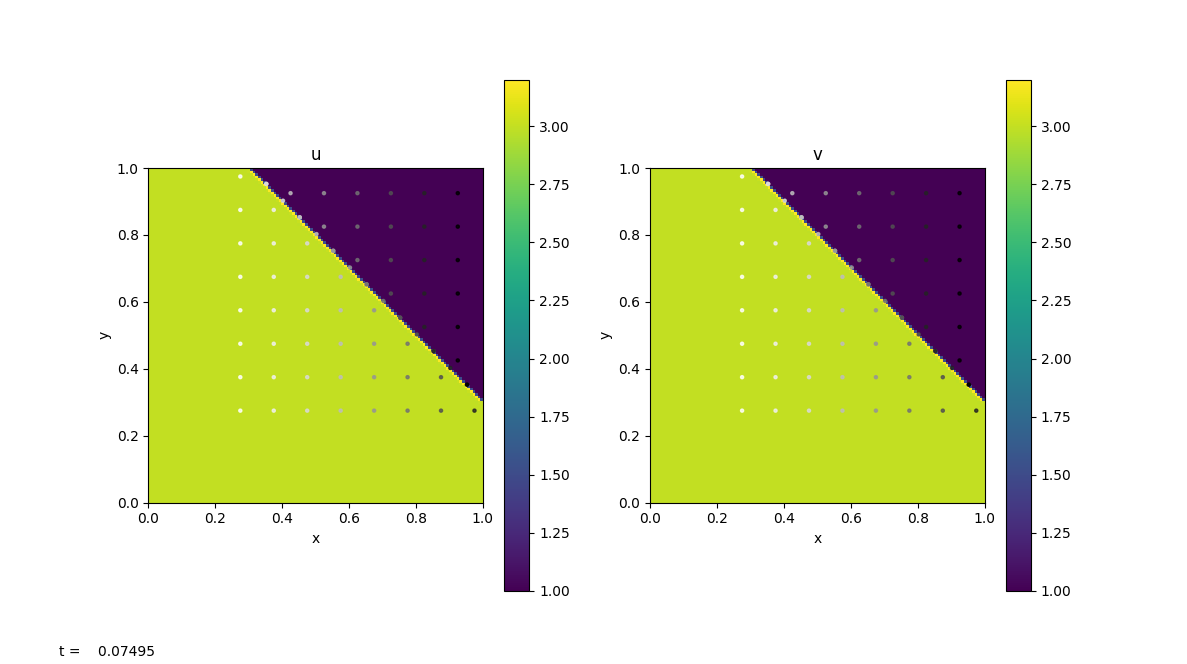
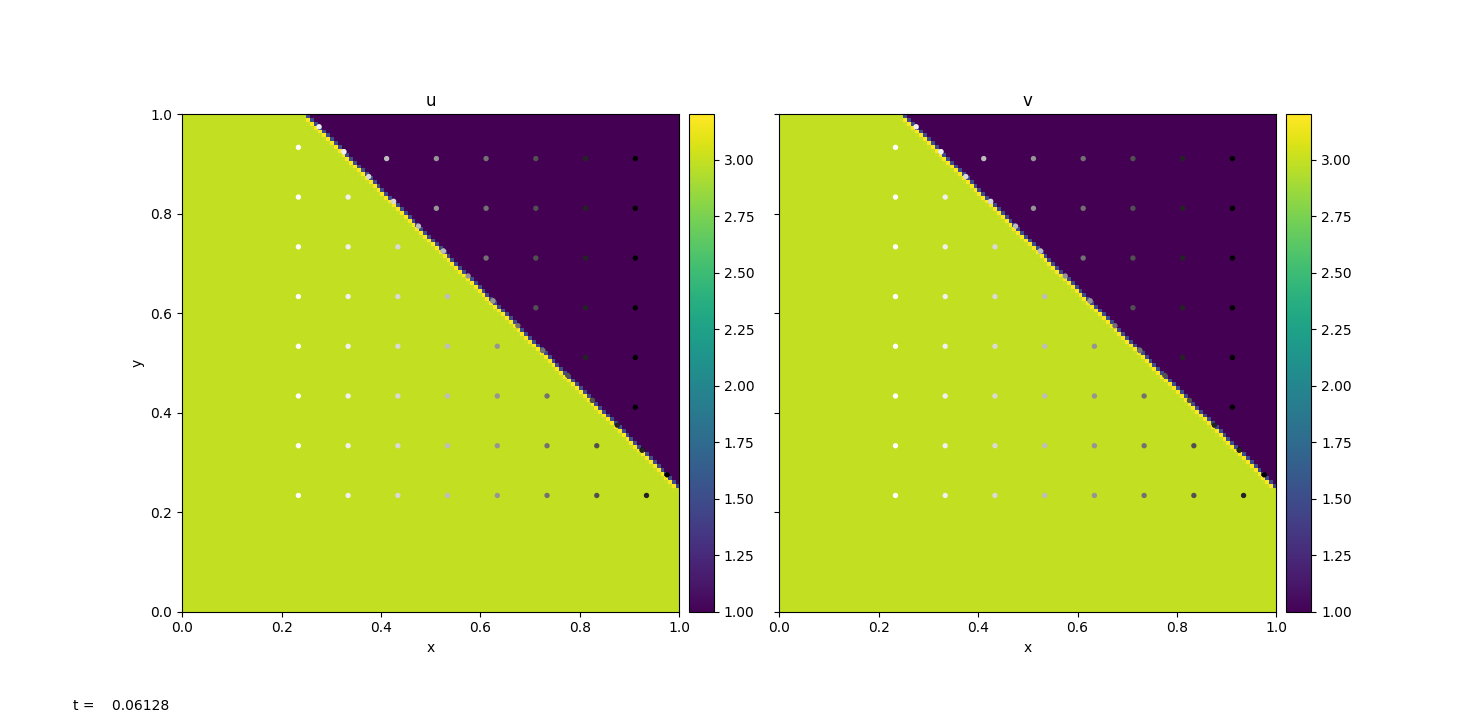
change plotting

diff --git a/pyro/burgers/simulation.py b/pyro/burgers/simulation.py
@@ -1,5 +1,6 @@
 import importlib
 
+import matplotlib
 import matplotlib.pyplot as plt
 import numpy as np
 
@@ -7,6 +8,7 @@ import pyro.burgers.burgers_interface as burgers_interface
 from pyro.mesh import patch, reconstruction
 from pyro.particles import particles
 from pyro.simulation_null import NullSimulation, bc_setup, grid_setup
+from pyro.util import plot_tools
 
 
 class Simulation(NullSimulation):
@@ -137,15 +139,13 @@ class Simulation(NullSimulation):
         v = self.cc_data.get_var("y-velocity")
 
         myg = self.cc_data.grid
-
-        _, axes = plt.subplots(nrows=1, ncols=2, num=1)
-        plt.subplots_adjust(hspace=0.25)
+        _, axes, _ = plot_tools.setup_axes(myg, 2)
 
         fields = [u, v]
         field_names = ["u", "v"]
 
         for n in range(2):
-            ax = axes.flat[n]
+            ax = axes[n]
 
             f = fields[n]
             img = ax.imshow(np.transpose(f.v()),
@@ -156,7 +156,9 @@ class Simulation(NullSimulation):
             ax.set_ylabel("y")
             ax.set_title(field_names[n])
 
-            plt.colorbar(img, ax=ax)
+            cb = axes.cbar_axes[n].colorbar(img)
+            cb.solids.set_rasterized(True)
+            cb.solids.set_edgecolor("face")
 
             if self.particles is not None:
 
@@ -166,7 +168,7 @@ class Simulation(NullSimulation):
 
                 # plot particles
                 ax.scatter(particle_positions[:, 0],
-                           particle_positions[:, 1], s=5, c=colors, alpha=0.8, cmap="Greys")
+                           particle_positions[:, 1], s=8, c=colors, cmap="Greys")
                 ax.set_xlim([myg.xmin, myg.xmax])
                 ax.set_ylim([myg.ymin, myg.ymax])
 
